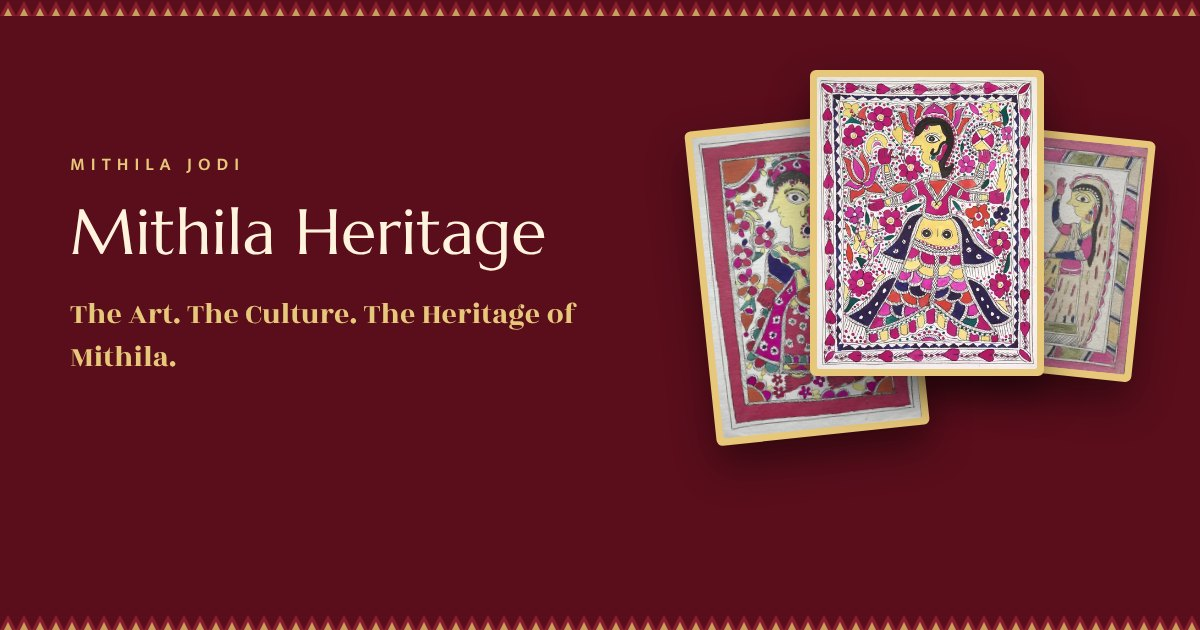
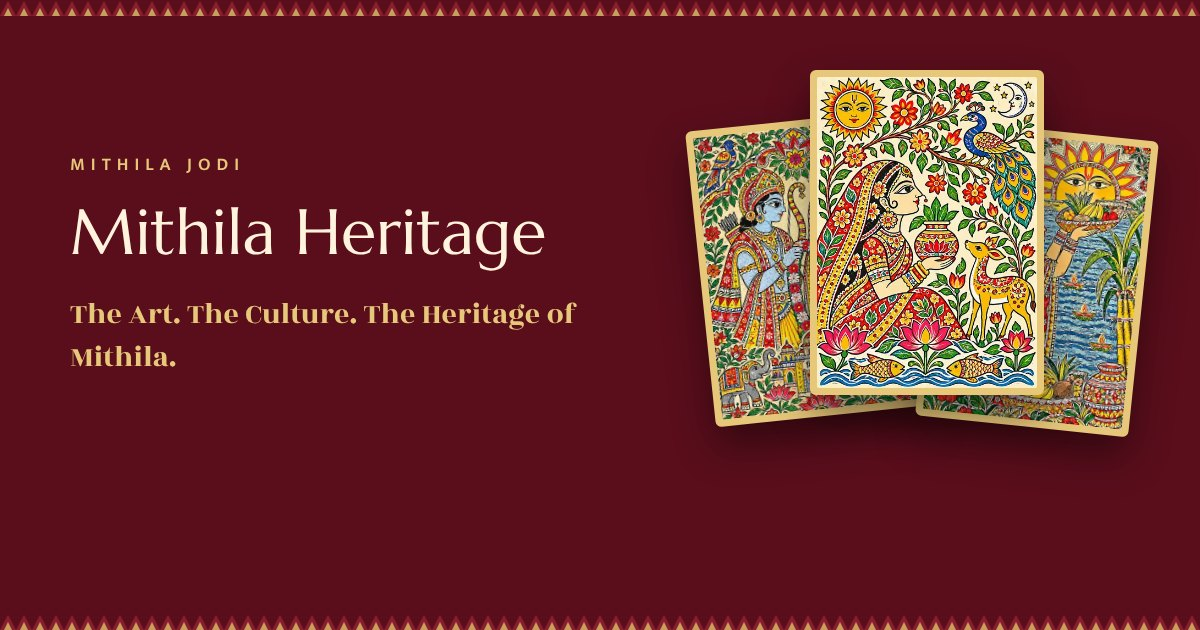
Mithila Heritage: show Jhayra's new collection (p079–p086), drop the old six
Tree of Life, The Peacock of Mithila, Kohbar Ghar, Siya Ram of Mithila,
Aripan Art, My Mithila My Village, Janakpur Royal Heritage and Chhath — names,
product links and images as on jhayra.com/shop/mithila. The earlier six
(p051–p056) and their images are removed. Hero and homepage card now lead
with Kohbar Ghar; four columns on desktop; new share image.

Claude-Session: https://claude.ai/code/session_01JX4jcwVcXwwWhcc4At5yup

Changed region(s): [[0.555, 0.1206, 0.9867, 0.7238]]

diff --git a/apps/web/src/app/mithila-heritage/page.tsx b/apps/web/src/app/mithila-heritage/page.tsx
@@ -4,7 +4,7 @@ import { MithilaHeader } from '@/components/home/MithilaHeader'
 import { MithilaFooter } from '@/components/home/MithilaFooter'
 import { MobileBottomNav } from '@/components/home/MobileBottomNav'
 import { HeritageLink } from '@/components/heritage/HeritageLink'
-import { HERITAGE_ARTWORKS, JHAYRA_MITHILA_URL, heritageSrc } from '@/lib/heritage'
+import { HERITAGE_ARTWORKS, JHAYRA_MITHILA_URL, artwork, heritageSrc } from '@/lib/heritage'
 import { pageMetadata, breadcrumbJsonLd, canonicalUrl, jsonLdScript } from '@/lib/seo'
 
 export const metadata = pageMetadata({
@@ -64,7 +64,8 @@ export default function MithilaHeritagePage() {
       itemListElement: HERITAGE_ARTWORKS.map((a, i) => ({ '@type': 'ListItem', position: i + 1, name: a.name, url: a.url })),
     },
   }
-  const [hero1, hero2, hero3] = [HERITAGE_ARTWORKS[0], HERITAGE_ARTWORKS[2], HERITAGE_ARTWORKS[5]]
+  // Kohbar Ghar in front, Siya Ram and Chhath behind it.
+  const [hero1, hero2, hero3] = [artwork('p081'), artwork('p082'), artwork('p086')]
 
   return (
     <div className="min-h-screen flex flex-col bg-paper overflow-x-clip">
@@ -146,14 +147,14 @@ export default function MithilaHeritagePage() {
                 Mithila paintings as framed wall art, curated by Jhayra. Browse, choose a size and frame, and order on Jhayra — prices, delivery and checkout are all there.
               </p>
             </div>
-            <ul className="mt-8 grid grid-cols-2 gap-4 sm:gap-6 lg:grid-cols-3">
+            <ul className="mt-8 grid grid-cols-2 gap-4 sm:gap-6 lg:grid-cols-4">
               {HERITAGE_ARTWORKS.map(a => (
                 <li key={a.id}>
                   <HeritageLink href={a.url} place={a.id} ariaLabel={`${a.name} — opens on Jhayra in a new tab`}
                     className="group block rounded-mj border border-gold/40 bg-cream p-2.5 shadow-mj-xs transition-all hover:-translate-y-0.5 hover:border-gold hover:shadow-mj focus-visible:outline-none focus-visible:ring-2 focus-visible:ring-maroon">
                     <div className="overflow-hidden rounded-[4px] bg-[#EFE5D4]">
                       <Image src={heritageSrc(a.id)} alt={`${a.name}, a Mithila (Madhubani) painting`} width={a.w} height={a.h} loading="lazy"
-                        sizes="(max-width: 1024px) 46vw, 360px" className="block aspect-[4/5] h-auto w-full object-cover transition-transform duration-500 group-hover:scale-[1.03]" />
+                        sizes="(max-width: 1024px) 46vw, 280px" className="block aspect-[4/5] h-auto w-full object-cover transition-transform duration-500 group-hover:scale-[1.03]" />
                     </div>
                     <p className="mt-2.5 px-1 font-serif text-[15px] leading-snug text-maroon sm:text-[16.5px]">{a.name}</p>
                     <p className="px-1 pb-1 text-[12.5px] text-ink-soft">View on Jhayra ↗</p>

diff --git a/apps/web/src/lib/heritage.ts b/apps/web/src/lib/heritage.ts
@@ -3,7 +3,7 @@
  *
  * Only this collection is promoted from Mithila Jodi — never Jhayra's home
  * page, its shop or any other collection. Names and product URLs are exactly
- * those on https://www.jhayra.com/shop/mithila (checked 2026-11-13); the
+ * those on https://www.jhayra.com/shop/mithila (updated 2026-11-13 to the new collection p079–p086); the
  * images are that collection's own photographs, resized and served from
  * /public/heritage. No prices or stock are shown here: those live on Jhayra.
  */
@@ -12,12 +12,17 @@ export const JHAYRA_MITHILA_URL = 'https://www.jhayra.com/shop/mithila'
 export type HeritageArtwork = { id: string; name: string; url: string; w: number; h: number }
 
 export const HERITAGE_ARTWORKS: HeritageArtwork[] = [
-  { id: 'p051', name: 'Mithila Goddess with Lotus', url: 'https://www.jhayra.com/product/p051', w: 400, h: 531 },
-  { id: 'p052', name: 'Mithila Shiva and Nandi', url: 'https://www.jhayra.com/product/p052', w: 400, h: 606 },
-  { id: 'p053', name: 'Mithila Woman in Profile', url: 'https://www.jhayra.com/product/p053', w: 400, h: 603 },
-  { id: 'p054', name: 'Mithila Many-Armed Deity', url: 'https://www.jhayra.com/product/p054', w: 400, h: 525 },
-  { id: 'p055', name: 'Mithila Devotional Figure', url: 'https://www.jhayra.com/product/p055', w: 400, h: 605 },
-  { id: 'p056', name: 'Mithila Mother and Children', url: 'https://www.jhayra.com/product/p056', w: 400, h: 456 },
+  { id: 'p079', name: 'Tree of Life', url: 'https://www.jhayra.com/product/p079', w: 400, h: 566 },
+  { id: 'p080', name: 'The Peacock of Mithila', url: 'https://www.jhayra.com/product/p080', w: 400, h: 566 },
+  { id: 'p081', name: 'Kohbar Ghar', url: 'https://www.jhayra.com/product/p081', w: 400, h: 566 },
+  { id: 'p082', name: 'Siya Ram of Mithila', url: 'https://www.jhayra.com/product/p082', w: 400, h: 566 },
+  { id: 'p083', name: 'Aripan Art', url: 'https://www.jhayra.com/product/p083', w: 400, h: 566 },
+  { id: 'p084', name: 'My Mithila, My Village', url: 'https://www.jhayra.com/product/p084', w: 400, h: 566 },
+  { id: 'p085', name: 'Janakpur Royal Heritage', url: 'https://www.jhayra.com/product/p085', w: 400, h: 566 },
+  { id: 'p086', name: 'Chhath', url: 'https://www.jhayra.com/product/p086', w: 400, h: 566 },
 ]
+
+/** By id, for the hero and the homepage card. */
+export const artwork = (id: string) => HERITAGE_ARTWORKS.find(a => a.id === id) ?? HERITAGE_ARTWORKS[0]
 
 export const heritageSrc = (id: string, w: 400 | 800 = 400) => `/heritage/${id}-${w}.webp`

diff --git a/apps/web/src/components/home/HeritageTeaser.tsx b/apps/web/src/components/home/HeritageTeaser.tsx
@@ -1,10 +1,10 @@
 import Image from 'next/image'
 import Link from 'next/link'
-import { HERITAGE_ARTWORKS, heritageSrc } from '@/lib/heritage'
+import { artwork, heritageSrc } from '@/lib/heritage'
 
 /** A small homepage card pointing to /mithila-heritage. Kept to one row so it does not crowd the page. */
 export function HeritageTeaser() {
-  const art = HERITAGE_ARTWORKS[0]
+  const art = artwork('p081') // Kohbar Ghar
   return (
     <section aria-labelledby="home-heritage" className="wrap py-8 sm:py-12">
       <Link href="/mithila-heritage" className="group mx-auto flex max-w-3xl items-center gap-4 rounded-mj-lg border border-gold/40 bg-cream p-3 shadow-mj-xs transition-all hover:border-gold hover:shadow-mj focus-visible:outline-none focus-visible:ring-2 focus-visible:ring-maroon sm:gap-6 sm:p-4">
